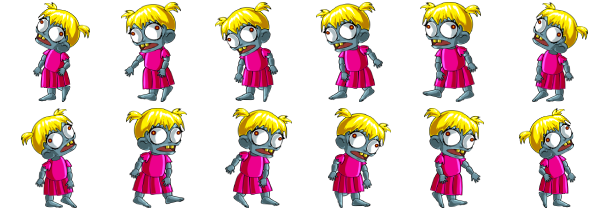
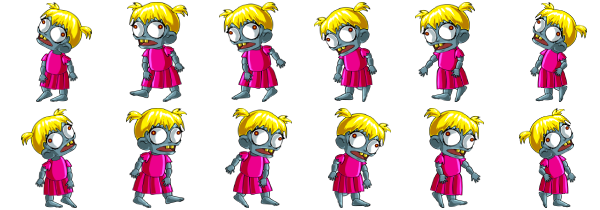
Animate Zombie DONE

diff --git a/js/game.js b/js/game.js
@@ -3,6 +3,8 @@ let game;
 let keyDown = null;
 let key = null;
 let jumpUP = false;
+let animateCounter = 0
+let direction = 105
 
 
 let go = false;
@@ -44,7 +46,7 @@ const Game = {
 
     createGame: function () {
         this.background = new Background(this.ctx, this.width, this.height)
-        this.jumper = new Jumper(this.ctx, 100, 116, this.width, this.height)
+        this.jumper = new Jumper(this.ctx, 100, 100, this.width, this.height)
         this.obstacles = new Obstacles(this.ctx);
     },
 
@@ -92,10 +94,14 @@ function a() {
         keyDown = true
         switch(e.keyCode){
             case 65: // Left
+            direction = 0 // Pj face left
             key = "left"
+            animateCount()
             break;
             case 68: // Right
+            direction = 105 // Pj face right
             key = "right"
+            animateCount()
             break;
             case 32: // Space
             key = "jump"
@@ -109,6 +115,14 @@ function a() {
         key = null;
     }) 
     window.requestAnimationFrame(renderizado)
+}
+
+
+function animateCount(){
+    animateCounter++
+    if(animateCounter == 6){
+        animateCounter = 0
+    } 
 }
 
 // Keyboards

diff --git a/js/player.js b/js/player.js
@@ -5,7 +5,9 @@ class Jumper {
         this.height = height;
 
         this.image = new Image();
-        this.image.src = "img/idle_1.png";
+        this.image.src = "img/Zombies.png"
+
+        //this.image.src = "img/idle_1.png";
 
 
         this.posX = canvasWidth / 2 - height / 2;
@@ -27,7 +29,8 @@ class Jumper {
     }
 
     draw() {
-        this.ctx.drawImage(this.image, this.posX, this.posY, this.width, this.height)
+        //this.ctx.drawImage(this.image, this.posX, this.posY, this.width, this.height)
+        this.ctx.drawImage(this.image, 0+(100*animateCounter), direction, 100, 100, this.posX, this.posY, this.width, this.height);
     }
 
 
@@ -74,6 +77,7 @@ class Jumper {
         if (this.floor() == true) {
             this.speedY = 0 - this.grty
         }
+        
 
         // Aquí toca hacer una función que compruebe continuamente sobre qué plataforma está.
         this.collision()
